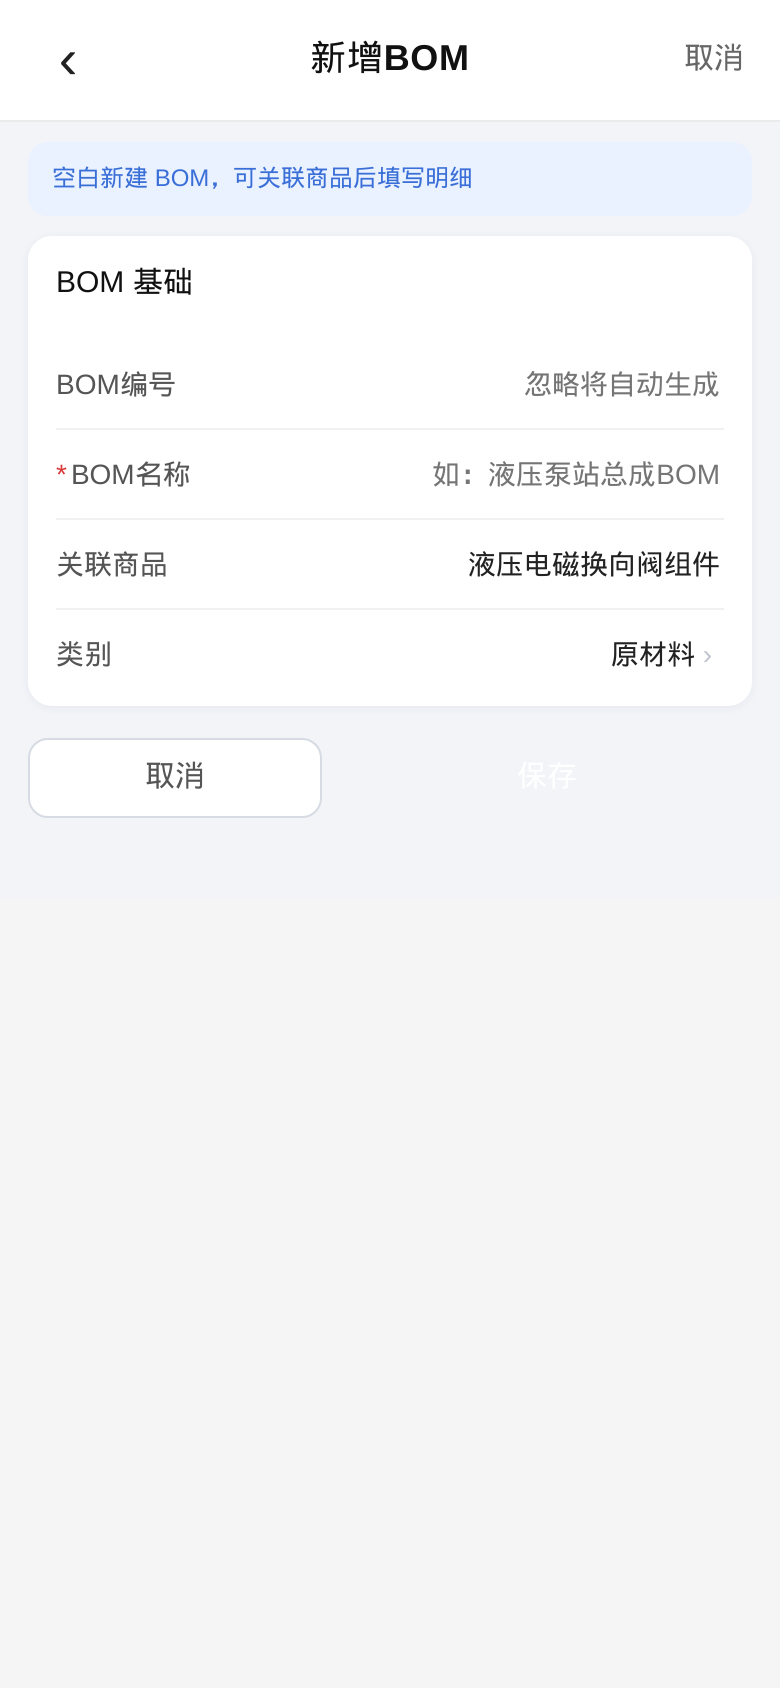
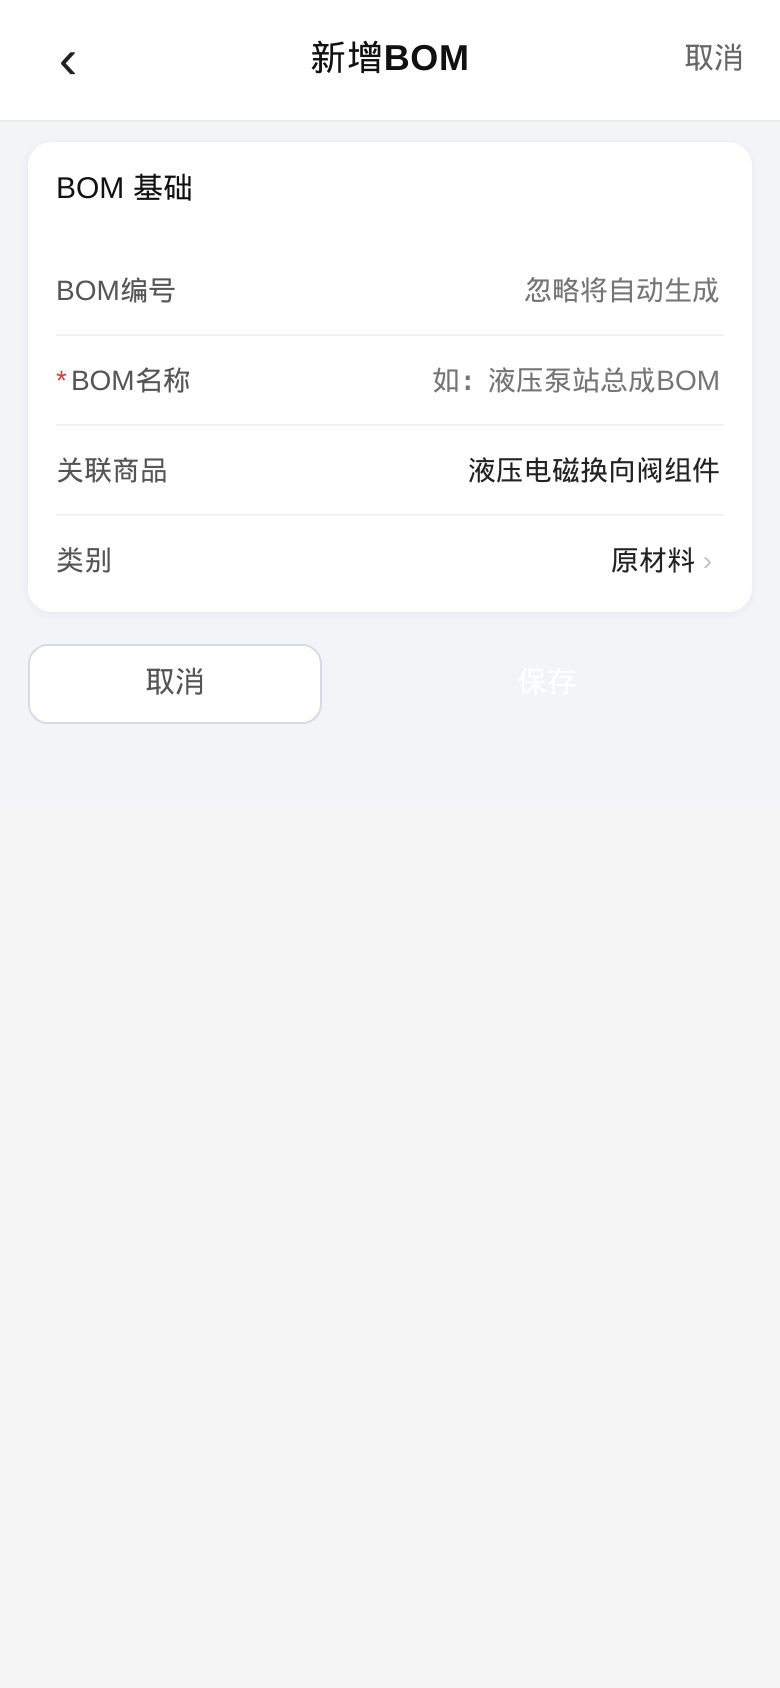
fix(mobile-c5): 去掉 create 蓝横幅并收紧全叶禁字断言
按 Allen 批量打回清单：删除新增表单蓝横幅；清理无用 CSS；
Playwright 禁字扩至（皮）/对齐快工单/PC path/定版等，覆盖 8 叶子
与 create/BOM 表单。未 merge、未上云。

diff --git a/apps/web/src/kgd/mobile-shell/goods-master/c5-goods.css b/apps/web/src/kgd/mobile-shell/goods-master/c5-goods.css
@@ -55,20 +55,6 @@
   cursor: pointer;
 }
 
-.c5-fixture-hint,
-.c5-hard-hint {
-  margin: 8px 14px 0;
-  font-size: 12px;
-  color: #8a8a8a;
-}
-
-.c5-hard-hint {
-  color: #3a6fd8;
-  background: #eaf1ff;
-  border-radius: 8px;
-  padding: 8px 10px;
-}
-
 .c5-toast {
   margin: 8px 14px 0;
   padding: 10px 12px;
@@ -141,78 +127,6 @@
 .c5-seg-item.is-on {
   background: var(--c5-accent);
   color: #fff;
-}
-
-.c5-search-row {
-  display: flex;
-  gap: 8px;
-  padding: 10px 14px 0;
-  align-items: center;
-}
-
-.c5-search-box {
-  flex: 1;
-  display: flex;
-  align-items: center;
-  gap: 6px;
-  background: #fff;
-  border: 1px solid #e3e6ec;
-  border-radius: 10px;
-  padding: 0 10px;
-  height: 38px;
-}
-
-.c5-search-box.grow { flex: 1; }
-
-.c5-search-box input {
-  flex: 1;
-  border: 0;
-  outline: none;
-  font-size: 14px;
-  background: transparent;
-}
-
-.c5-query-btn {
-  border: 0;
-  background: var(--c5-accent);
-  color: #fff;
-  border-radius: 10px;
-  height: 38px;
-  padding: 0 14px;
-  font-size: 14px;
-  cursor: pointer;
-}
-
-.c5-filter-ico {
-  width: 38px;
-  height: 38px;
-  border: 1px solid #e3e6ec;
-  border-radius: 10px;
-  background: #fff;
-  cursor: pointer;
-}
-
-.c5-capsules {
-  display: flex;
-  gap: 8px;
-  padding: 10px 14px 0;
-  overflow-x: auto;
-}
-
-.c5-capsule {
-  border: 0;
-  background: #e8ebf0;
-  color: #555;
-  border-radius: 999px;
-  padding: 6px 12px;
-  font-size: 12px;
-  white-space: nowrap;
-  cursor: pointer;
-}
-
-.c5-capsule.is-on {
-  background: #d7e6ff;
-  color: var(--c5-accent);
 }
 
 .c5-list {
@@ -738,27 +652,11 @@
   cursor: pointer;
 }
 
-.c5-leaf-foot {
-  margin: 4px 14px 0;
-  font-size: 11px;
-  color: #9aa0a8;
-}
-
 /* 新增直进表单 */
 .c5-create {
   min-height: 100%;
   background: #f2f4f8;
   padding-bottom: 24px;
-}
-
-.c5-create-banner {
-  margin: 10px 14px 0;
-  padding: 10px 12px;
-  background: #eaf1ff;
-  color: #3a6fd8;
-  border-radius: 10px;
-  font-size: 12px;
-  line-height: 1.45;
 }
 
 .c5-form-card {

diff --git a/apps/web/src/kgd/mobile-shell/goods-master/CreateForm.tsx b/apps/web/src/kgd/mobile-shell/goods-master/CreateForm.tsx
@@ -8,7 +8,7 @@ type Props = {
   linkedGoods?: string;
 };
 
-/** 新增直进表单（无模板）· 皮层，不落库 */
+/** 新增直进表单（无模板）；本波不落库，仅交互皮 */
 export function CreateForm({ kind, title, onCancel, onSave, linkedGoods }: Props) {
   const [name, setName] = useState(kind === 'goods' ? '深沟球轴承 6205-2RS' : '');
   const [code, setCode] = useState('');
@@ -31,12 +31,6 @@ export function CreateForm({ kind, title, onCancel, onSave, linkedGoods }: Props
         <h1 className="ms-top-title c5-leaf-title">{title}</h1>
         <button type="button" className="c5-top-cancel" onClick={onCancel}>取消</button>
       </header>
-
-      <div className="c5-create-banner" data-testid="c5-create-banner">
-        {kind === 'goods'
-          ? '空白新建商品，直接填写基础信息与库存预警'
-          : '空白新建 BOM，可关联商品后填写明细'}
-      </div>
 
       {kind === 'goods' ? (
         <>

diff --git a/docs/verification/mobile-c5-goods-master/SUMMARY.md b/docs/verification/mobile-c5-goods-master/SUMMARY.md
@@ -18,7 +18,7 @@
 | C5-NO-DEV-COPY | 全叶子无夹具/硬约束/同源API 文案且无长搜索条 | 通过 | goods-list,bom,goods-base,machine,process,post,route,extra |
 | C5-PLUS-GOODS | 商品＋下拉仅「新增商品｜扫码新增」无模板 | 通过 | ＋新增商品/扫扫码新增 |
 | C5-GOODS-SEARCH-ICON | 商品列表点顶栏放大镜进入搜索态（无标题下长条） | 通过 | top-magnifier-ok |
-| C5-GOODS-CREATE | 商品新增直进详情表单（无模板） | 通过 | 空白新建商品，直接填写基础信息与库存预警 |
+| C5-GOODS-CREATE | 商品新增直进详情表单（无模板、无蓝横幅） | 通过 | create-form-no-banner |
 | C5-PLUS-BOM | BOM＋下拉（新增BOM｜扫码） | 通过 | ＋新增BOM/扫扫码 |
 | C5-BOM-UPSTREAM | BOM 新增关联商品 · 上游勾选完成(N) | 通过 | 已选 1 · 液压电磁换向阀组件 |
 | C5-ROUTE-CHAIN | 工艺路线每卡迷你步骤链可见连线 | 通过 | cards=2 |
